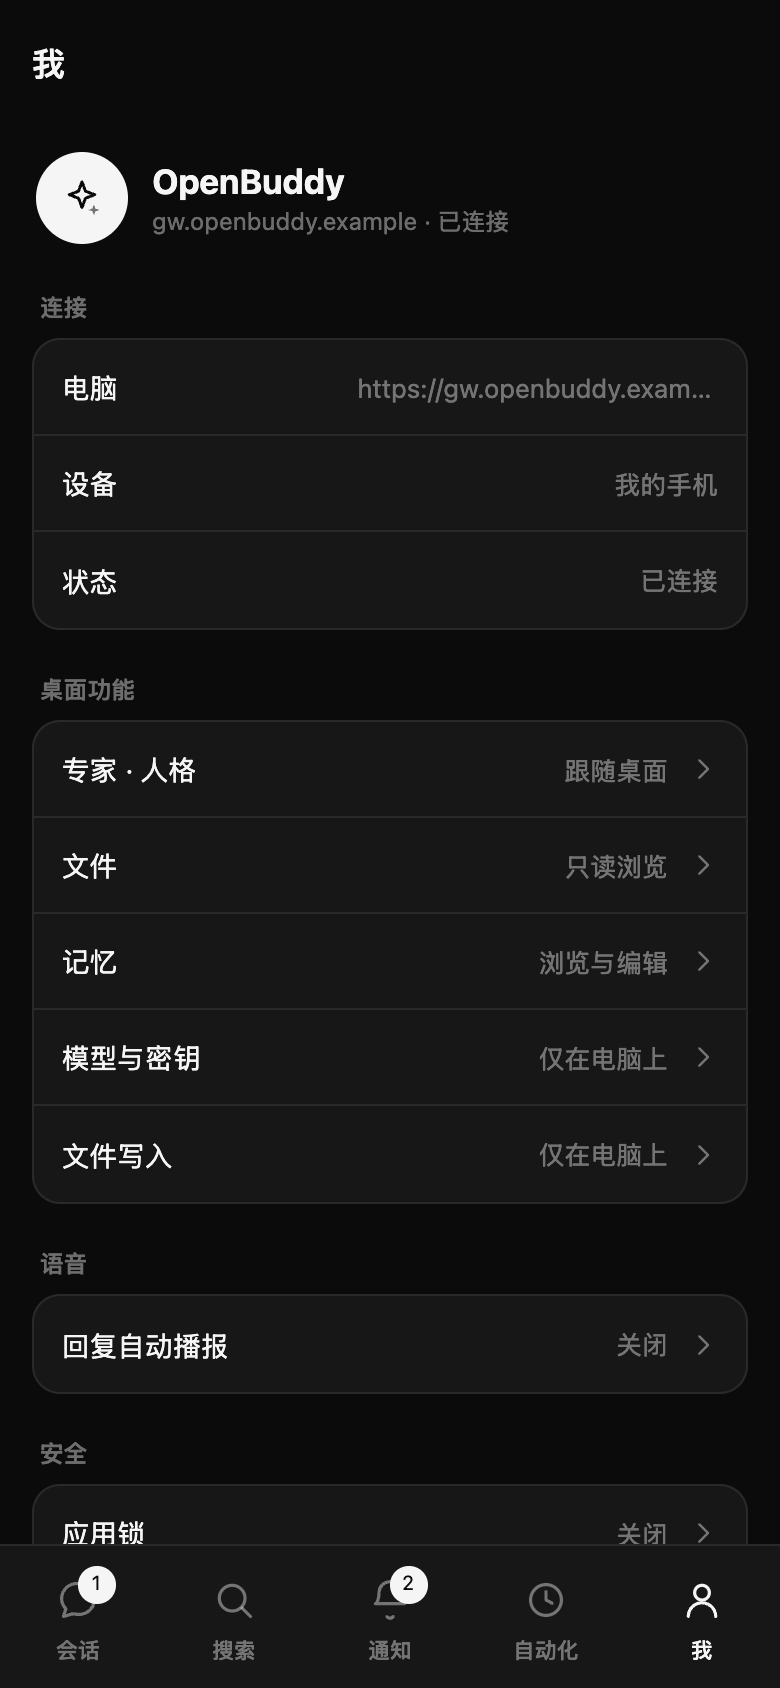
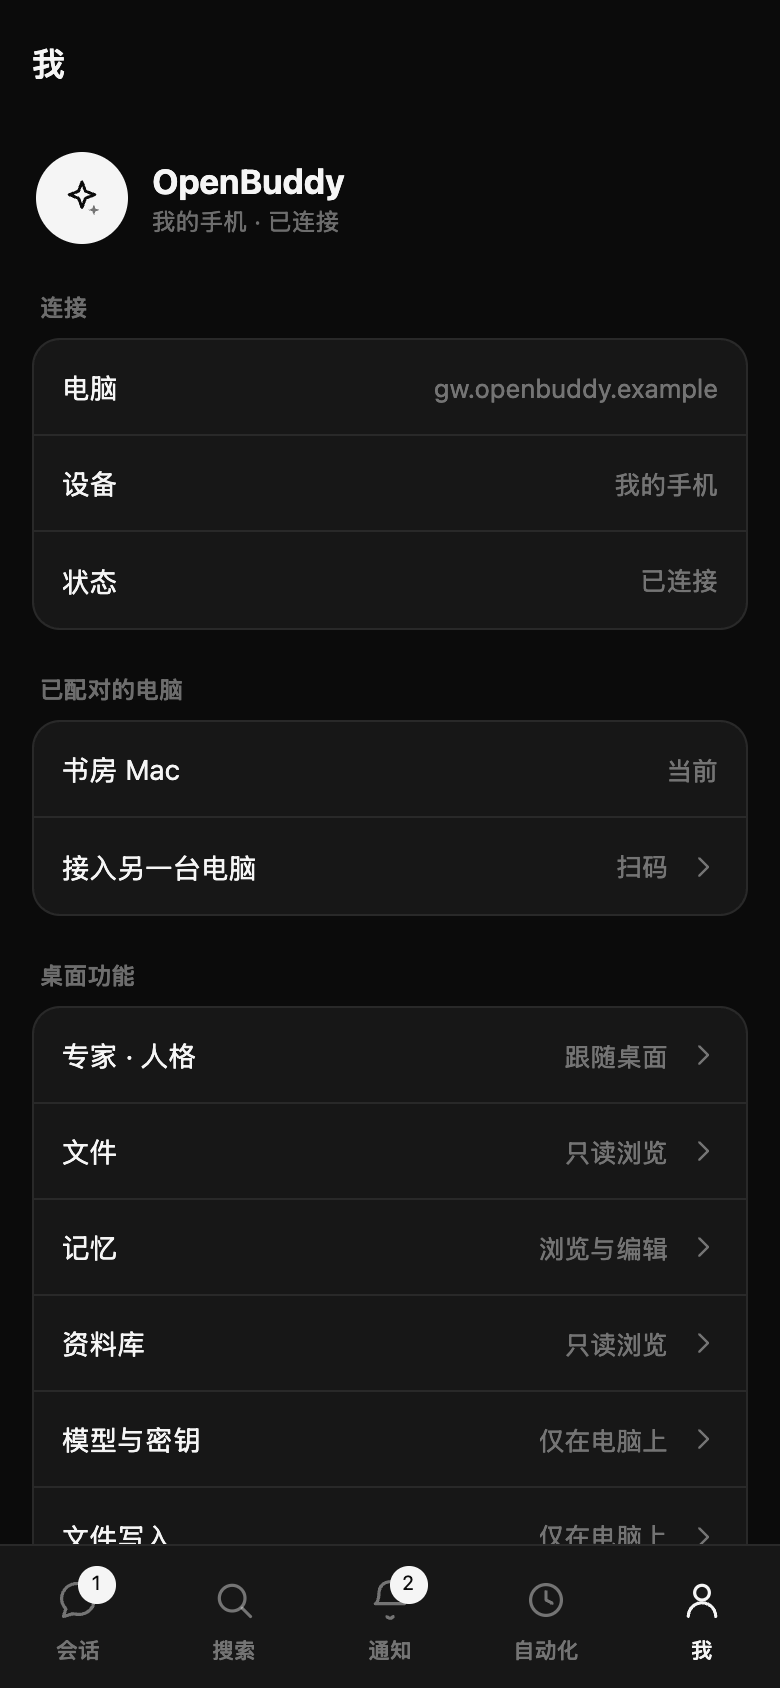
polish(mobile): 「我」副标题去重、通知未读点靠右（v3 §9.17）
副标题改为设备名 + 状态，网关地址只在连接卡出现；通知未读圆点从分类文字后
移到卡片右上角，避免读成标点。

diff --git a/apps/mobile/app/(tabs)/notifications.tsx b/apps/mobile/app/(tabs)/notifications.tsx
@@ -112,10 +112,11 @@ export default function NotificationsScreen() {
               opacity: item.read ? 0.62 : 1,
             })}
           >
-            <View style={{ flexDirection: 'row', alignItems: 'center', gap: 8 }}>
+            <View style={{ flexDirection: 'row', alignItems: 'center', justifyContent: 'space-between', gap: 8 }}>
               <Text style={{ color: theme.textWeak, fontSize: 11, fontWeight: '600', letterSpacing: 0.3 }}>
                 {LABEL[item.kind] ?? item.kind}
               </Text>
+              {/* The dot marks the row, not the label — keep it on the card edge. */}
               {!item.read ? <View style={{ width: 6, height: 6, borderRadius: 3, backgroundColor: theme.ink }} /> : null}
             </View>
             <Text numberOfLines={1} style={{ color: theme.text, fontSize: 14, fontWeight: '600' }}>{item.title}</Text>

diff --git a/apps/mobile/app/(tabs)/me.tsx b/apps/mobile/app/(tabs)/me.tsx
@@ -172,7 +172,7 @@ export default function MeScreen() {
         <View style={{ flex: 1 }}>
           <Text style={{ color: theme.text, fontSize: 17, fontWeight: '700' }}>OpenBuddy</Text>
           <Text style={{ color: theme.textWeak, fontSize: 12, marginTop: 2 }}>
-            {pairing ? `${pairing.gatewayUrl.replace(/^https?:\/\//, '')} · ${statusText}` : '未连接电脑'}
+            {pairing ? `${pairing.deviceName} · ${statusText}` : '未连接电脑'}
           </Text>
         </View>
       </View>

diff --git a/docs/plan/20261117-mobile.md b/docs/plan/20261117-mobile.md
@@ -603,6 +603,19 @@ gateway `bun test` **364/364**、`tsc` 与 iOS/web `expo export` 通过。
 新增截图 `mobile-tool-output-truncated.png`。
 剩余 E5（推送真实送达）与 F1（真机手感）仍受真机环境阻塞。
 
+### 9.17 UI 走查记录（2026-11-18，第十七轮）
+
+| 检查 | 结果 | 处理 |
+|---|---|---|
+| 「我」头部副标题 | 与「连接 · 电脑」行重复显示同一网关地址 | 副标题改为「设备名 · 状态」，网关只在连接卡出现 |
+| 通知未读点位置 | 圆点紧跟分类文字，像标点 | 分类与圆点两端对齐，圆点固定在卡片右上角 |
+| 32 屏浅/深两套 | 全部通过、0 页面错误 | — |
+
+**当前 v3：98/100**（A 25 + B 15 + C 20 + D 15 + E 14 + F 9）。
+第十七轮验证：手机端 **233** 单测、App E2E **114/114**、预览 UI **32/32**、
+`tsc` 与 iOS/web `expo export` 通过。
+更新截图 `mobile-me(_dark).png`、`mobile-notifications(_dark).png`。
+
 ---
 
 ## 10. 非功能目标
